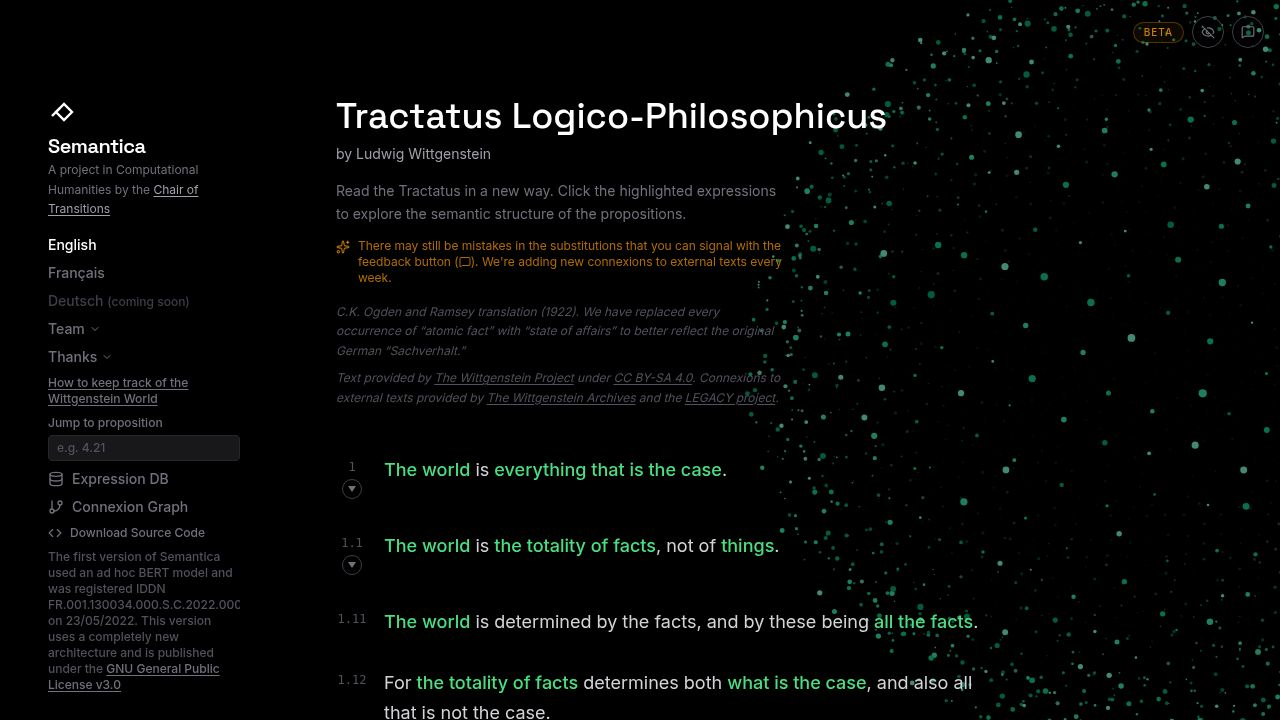
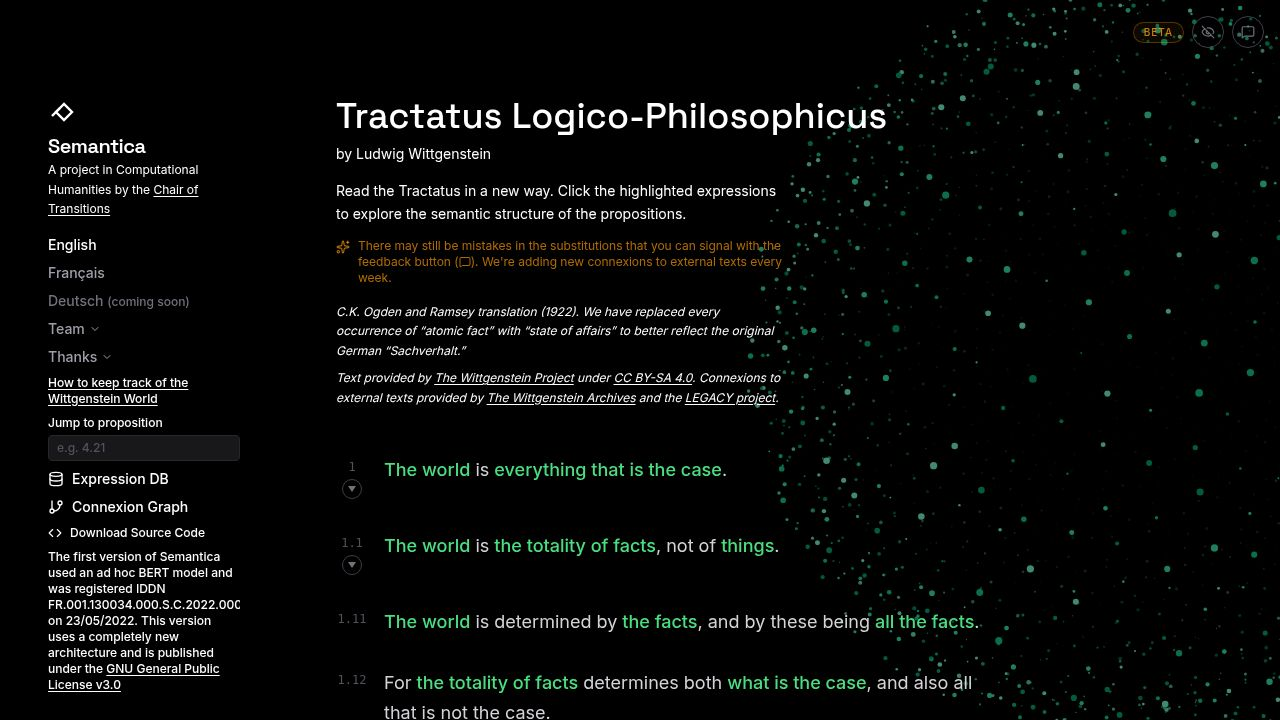
Update sidebar text color to pure white for better readability
Adjust text colors in the sidebar component to white, improving contrast and visual clarity.

Replit-Commit-Author: Agent
Replit-Commit-Session-Id: 3d3c5ee8-30ca-449f-a36a-2a26b9467d3a
Replit-Commit-Checkpoint-Type: full_checkpoint
Replit-Commit-Event-Id: 54973ae2-9045-4c2a-916c-b38251339e62
Replit-Commit-Screenshot-Url: https://storage.googleapis.com/screenshot-production-us-central1/2c497065-9d4a-4f02-8f2e-021a778ebca1/3d3c5ee8-30ca-449f-a36a-2a26b9467d3a/2uy16SU
Replit-Helium-Checkpoint-Created: true

diff --git a/client/src/pages/Home.tsx b/client/src/pages/Home.tsx
@@ -295,34 +295,34 @@ export default function Home() {
               <path d="M5 25 L15 15" />
             </svg>
             <h1 className="font-display font-semibold text-white text-xl tracking-tight">Semantica</h1>
-            <p className="text-zinc-500 text-xs leading-relaxed">{language === 'en' ? <>A project in Computational Humanities by the <a href="https://chairtransitions.com/" target="_blank" rel="noopener noreferrer" className="text-zinc-400 hover:text-green-400 transition-colors underline underline-offset-2" data-testid="link-chair-subtitle">Chair of Transitions</a></> : <>Un projet en Humanités Computationnelles de la <a href="https://chairtransitions.com/" target="_blank" rel="noopener noreferrer" className="text-zinc-400 hover:text-green-400 transition-colors underline underline-offset-2" data-testid="link-chair-subtitle">Chair of Transitions</a></>}</p>
+            <p className="text-white text-xs leading-relaxed">{language === 'en' ? <>A project in Computational Humanities by the <a href="https://chairtransitions.com/" target="_blank" rel="noopener noreferrer" className="text-white hover:text-green-400 transition-colors underline underline-offset-2" data-testid="link-chair-subtitle">Chair of Transitions</a></> : <>Un projet en Humanités Computationnelles de la <a href="https://chairtransitions.com/" target="_blank" rel="noopener noreferrer" className="text-white hover:text-green-400 transition-colors underline underline-offset-2" data-testid="link-chair-subtitle">Chair of Transitions</a></>}</p>
           </div>
 
           <nav className="flex flex-col gap-2 font-medium text-sm">
             <button 
               onClick={() => setLanguage('en')}
-              className={`text-left transition-colors ${language === 'en' ? 'text-white' : 'text-zinc-500 hover:text-zinc-300'}`}
+              className={`text-left transition-colors ${language === 'en' ? 'text-white' : 'text-zinc-400 hover:text-white'}`}
               data-testid="btn-lang-en"
             >
               English
             </button>
             <button 
               onClick={() => setLanguage('fr')}
-              className={`text-left transition-colors ${language === 'fr' ? 'text-white' : 'text-zinc-500 hover:text-zinc-300'}`}
+              className={`text-left transition-colors ${language === 'fr' ? 'text-white' : 'text-zinc-400 hover:text-white'}`}
               data-testid="btn-lang-fr"
             >
               Fran&ccedil;ais
             </button>
             <span
-              className="text-zinc-700 cursor-default"
+              className="text-zinc-500 cursor-default"
               data-testid="btn-lang-de"
             >
-              Deutsch <span className="text-zinc-700 text-xs">(coming soon)</span>
+              Deutsch <span className="text-zinc-500 text-xs">(coming soon)</span>
             </span>
 
             <button
               onClick={() => { setShowTeam(!showTeam); setShowThanks(false); }}
-              className={`text-left transition-colors flex items-center gap-1 ${showTeam ? 'text-white' : 'text-zinc-500 hover:text-white'}`}
+              className={`text-left transition-colors flex items-center gap-1 ${showTeam ? 'text-white' : 'text-zinc-400 hover:text-white'}`}
               data-testid="btn-team"
             >
               {language === 'en' ? 'Team' : '\u00c9quipe'}
@@ -340,7 +340,7 @@ export default function Home() {
 
             <button
               onClick={() => { setShowThanks(!showThanks); setShowTeam(false); }}
-              className={`text-left transition-colors flex items-center gap-1 ${showThanks ? 'text-white' : 'text-zinc-500 hover:text-white'}`}
+              className={`text-left transition-colors flex items-center gap-1 ${showThanks ? 'text-white' : 'text-zinc-400 hover:text-white'}`}
               data-testid="btn-thanks"
             >
               {language === 'en' ? 'Thanks' : 'Remerciements'}
@@ -362,10 +362,10 @@ export default function Home() {
               </div>
             )}
 
-            <a href="https://www.wittgensteinproject.org/w/index.php/Blog:How_to_Keep_Track_of_the_Wittgensteinian_World" target="_blank" rel="noopener noreferrer" className="text-zinc-500 hover:text-green-400 transition-colors text-xs underline underline-offset-2" data-testid="link-wittgenstein-blog">{language === 'en' ? 'How to keep track of the Wittgenstein World' : 'Comment suivre le monde wittgensteinien'}</a>
+            <a href="https://www.wittgensteinproject.org/w/index.php/Blog:How_to_Keep_Track_of_the_Wittgensteinian_World" target="_blank" rel="noopener noreferrer" className="text-white hover:text-green-400 transition-colors text-xs underline underline-offset-2" data-testid="link-wittgenstein-blog">{language === 'en' ? 'How to keep track of the Wittgenstein World' : 'Comment suivre le monde wittgensteinien'}</a>
 
             <div className="flex flex-col gap-1">
-              <label className="text-zinc-500 text-xs">{language === 'en' ? 'Jump to proposition' : 'Aller à la proposition'}</label>
+              <label className="text-white text-xs">{language === 'en' ? 'Jump to proposition' : 'Aller à la proposition'}</label>
               <input
                 type="text"
                 value={jumpTo}
@@ -398,14 +398,14 @@ export default function Home() {
             </div>
 
             <Link href="/editor">
-              <span className="text-zinc-500 hover:text-green-400 transition-colors flex items-center gap-2 cursor-pointer">
+              <span className="text-white hover:text-green-400 transition-colors flex items-center gap-2 cursor-pointer">
                 <Database className="w-4 h-4" />
                 {language === 'en' ? 'Expression DB' : 'Base d\u2019expressions'}
               </span>
             </Link>
 
             <Link href="/graph">
-              <span className="text-zinc-500 hover:text-green-400 transition-colors flex items-center gap-2 cursor-pointer" data-testid="link-graph">
+              <span className="text-white hover:text-green-400 transition-colors flex items-center gap-2 cursor-pointer" data-testid="link-graph">
                 <GitBranch className="w-4 h-4" />
                 {language === 'en' ? 'Connexion Graph' : 'Graphe de connexions'}
               </span>
@@ -428,13 +428,13 @@ export default function Home() {
                   console.error('Download failed:', err);
                 }
               }}
-              className="flex items-center gap-2 text-zinc-500 hover:text-green-400 transition-colors text-xs"
+              className="flex items-center gap-2 text-white hover:text-green-400 transition-colors text-xs"
               data-testid="btn-download-code"
             >
               <Code className="w-3.5 h-3.5" />
               {language === 'en' ? 'Download Source Code' : 'Télécharger le code source'}
             </button>
-            <p className="text-xs text-zinc-600 mb-1">
+            <p className="text-xs text-white mb-1">
               {language === 'en'
                 ? 'The first version of Semantica used an ad hoc BERT model and was registered IDDN FR.001.130034.000.S.C.2022.000.31235 on 23/05/2022. This version uses a completely new architecture and is published under the'
                 : 'La première version de Semantica utilisait un modèle BERT ad hoc et a été enregistrée IDDN FR.001.130034.000.S.C.2022.000.31235 le 23/05/2022. Cette version utilise une architecture entièrement nouvelle et est publiée sous la'}{' '}
@@ -442,7 +442,7 @@ export default function Home() {
                 href="https://www.gnu.org/licenses/gpl-3.0.en.html"
                 target="_blank"
                 rel="noopener noreferrer"
-                className="text-zinc-500 hover:text-green-400 transition-colors underline underline-offset-2"
+                className="text-white hover:text-green-400 transition-colors underline underline-offset-2"
                 data-testid="link-license"
               >
                 GNU General Public License v3.0
@@ -456,17 +456,17 @@ export default function Home() {
             <h2 className="text-3xl md:text-4xl font-display font-medium text-white mb-2">
               Tractatus Logico-Philosophicus
             </h2>
-            <p className="text-zinc-400 text-sm mb-4">
+            <p className="text-white text-sm mb-4">
               {language === 'en' ? 'by Ludwig Wittgenstein' : 'par Ludwig Wittgenstein'}
             </p>
-            <p className="text-zinc-500 max-w-md text-sm leading-relaxed">
+            <p className="text-white max-w-md text-sm leading-relaxed">
               {language === 'en' ? 'Read the Tractatus in a new way. Click the highlighted expressions to explore the semantic structure of the propositions.' : 'Lisez le Tractatus d\u2019une nouvelle mani\u00e8re. Cliquez sur les expressions surlign\u00e9es pour explorer la structure s\u00e9mantique des propositions.'}
             </p>
             <div className="mt-3 flex items-start gap-2 text-amber-500/70 text-xs max-w-md">
               <Sparkles className="w-3.5 h-3.5 mt-0.5 shrink-0" />
               <p>{language === 'en' ? <>There may still be mistakes in the substitutions that you can signal with the feedback button (<MessageSquare className="w-3 h-3 inline" />). We're adding new connexions to external texts every week.</> : <>Il peut encore y avoir des erreurs dans les substitutions que vous pouvez signaler avec le bouton de retour (<MessageSquare className="w-3 h-3 inline" />). Nous ajoutons de nouvelles connexions à des textes externes chaque semaine.</>}</p>
             </div>
-            <div className="mt-4 text-zinc-600 text-xs leading-relaxed max-w-md italic">
+            <div className="mt-4 text-white text-xs leading-relaxed max-w-md italic">
               {language === 'en' ? (
                 <>
                   <p>C.K. Ogden and Ramsey translation (1922). We have replaced every occurrence of &ldquo;atomic fact&rdquo; with &ldquo;state of affairs&rdquo; to better reflect the original German &ldquo;Sachverhalt.&rdquo;</p>
